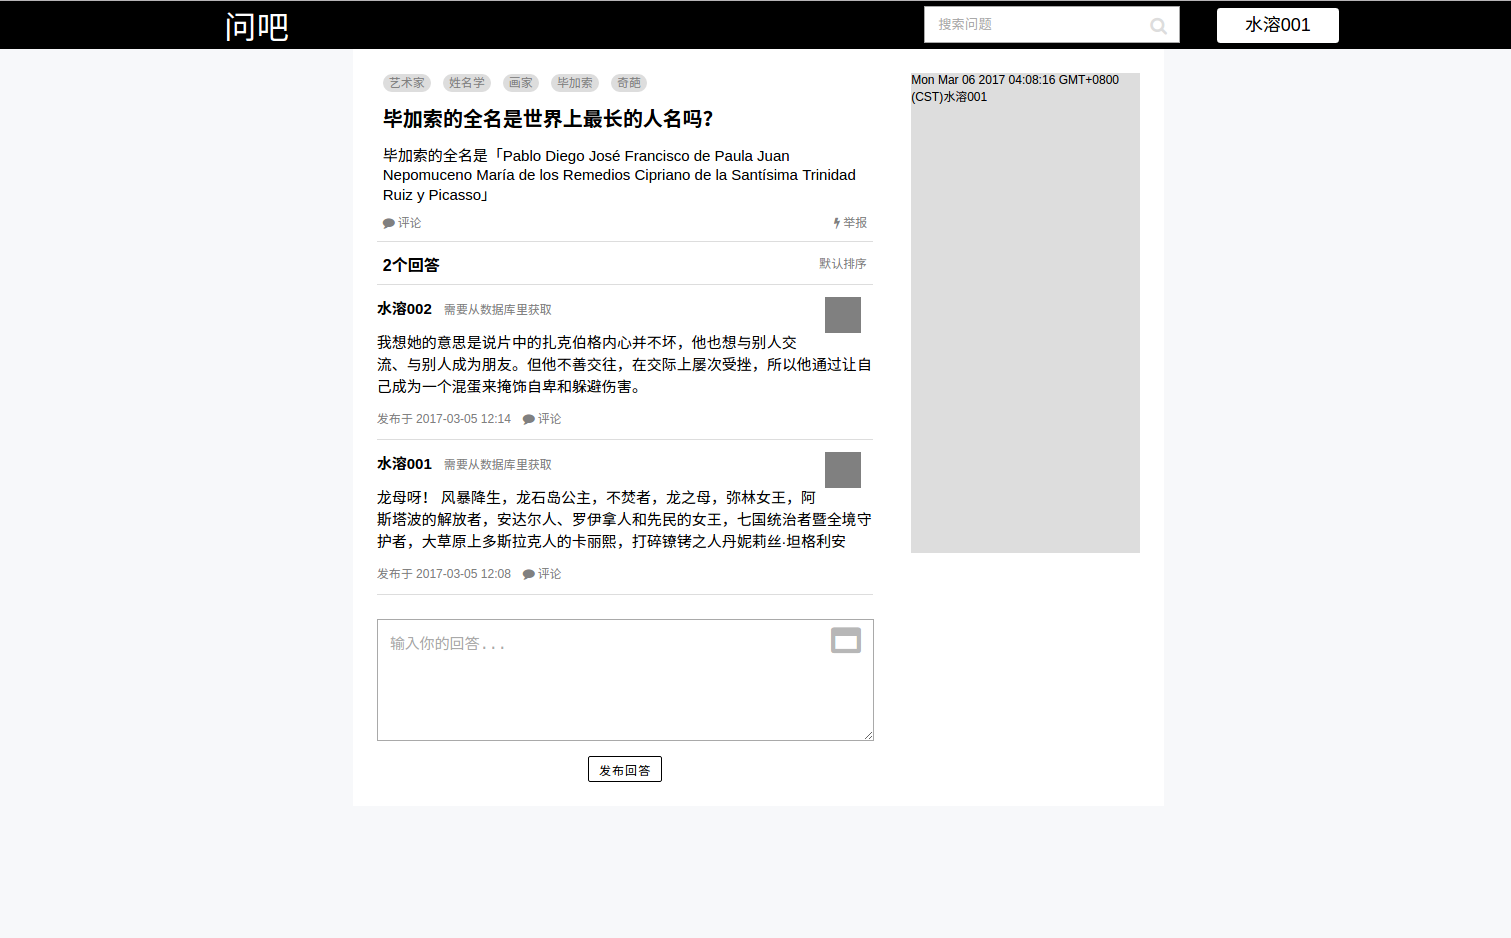
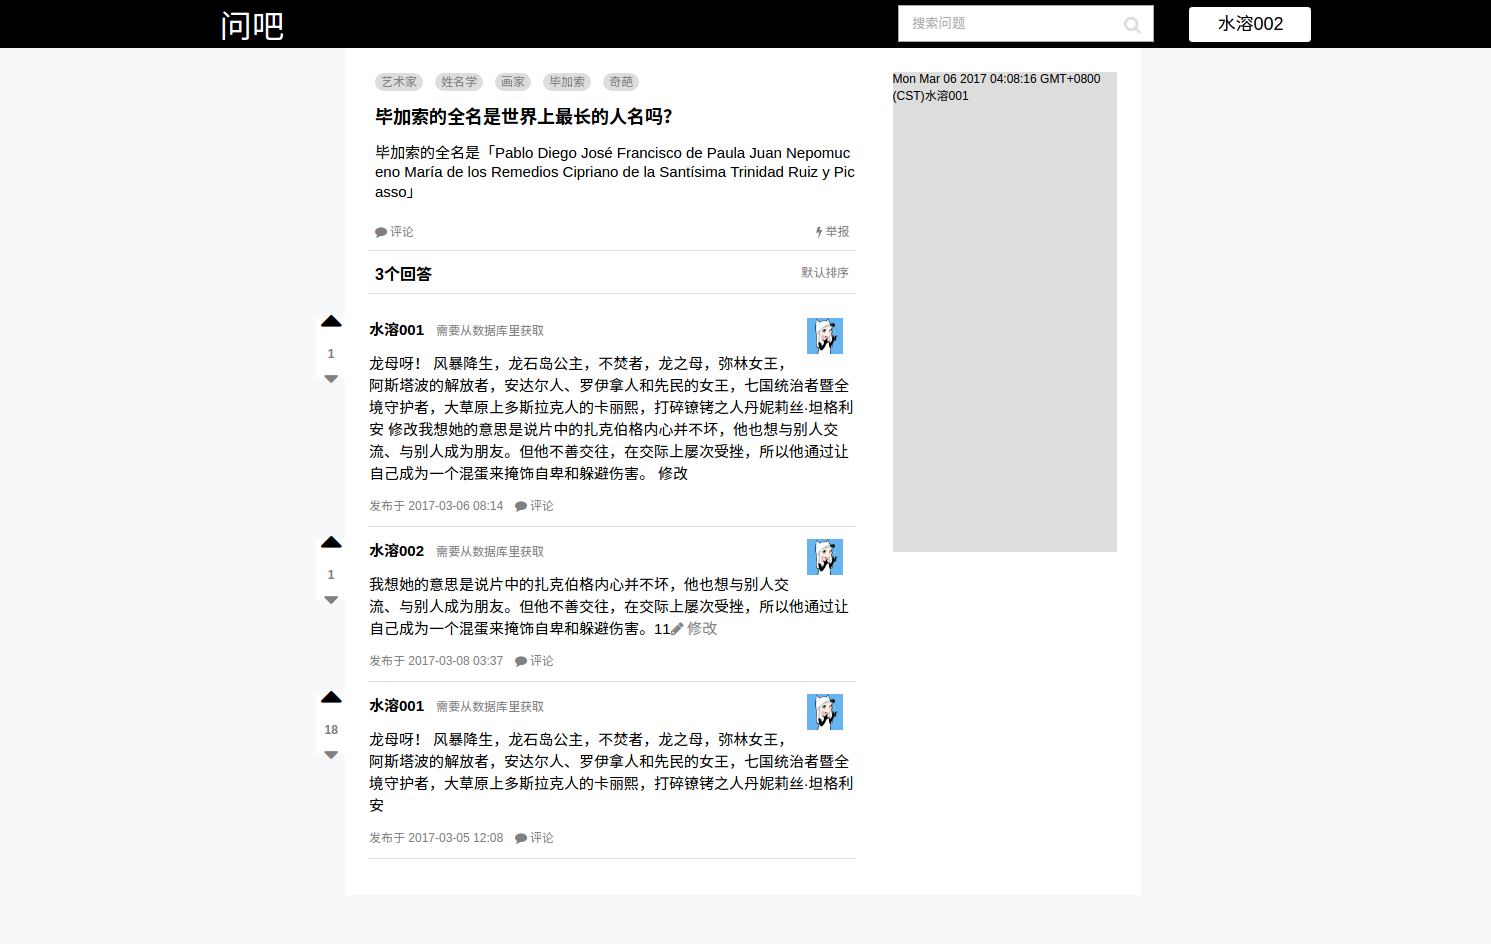
修改README,添加回答排序,默认根据赞数正序排序.

Changed region(s): [[0.216, 0.0, 0.8947, 0.8966], [0.7404, 0.0928, 0.7713, 0.5874], [0.1234, 0.0, 0.216, 0.0618]]

diff --git a/public/javascripts/questionPage.js b/public/javascripts/questionPage.js
@@ -35,7 +35,9 @@ function listAnswers(){
     $.post('/api/getanswers',{username: getCookie('user'),questionID: questionID},function(res){
         //修改页面回答数量
         $('#qpm-up-answer-count span:first-child').text(res.data.length + '个回答');
-        dealTimeFormat(res.data);            
+        dealTimeFormat(res.data);
+        let data = sortByScore(res.data);
+        console.log(data);
         dynamicAddAnswer(res.data);
     });
 }
@@ -113,8 +115,12 @@ var ansModify = function(which){
     
 };
 
-//给.judge元素设置score属性记录当前回答的赞数.用户点击时的计算结果保存给它,而属性serverScore永远保存的是数据库里当前回答的赞数.所以需要给这两个属性初始化.
 //监听回答的点赞.
+
+//给.judge元素设置score属性记录当前回答的赞数.用户点击时的计算结果保存给它,而属性serverScore永远保存的是数据库里当前回答的赞数.所以需要给这两个属性初始化.
+//点赞/反对的思路是: 定义几个元素属性,之所以不用变量是因为这个东西需要和回答绑定起来,变量的话,做不到吧.好吧其实可以做到,但是麻烦.所以直接用div的attr了当成变量存储信息了.
+//这几个属性记录用户点的是up还是down.up/down点了奇数此还是偶数次,还有记录从服务器获得的分数.
+//在前端计算回答的分数.
 var upVote = function(which){
     let serverScore = $(which.parentElement).attr('finalScore');  //从服务器端获取的某答案的score;
     //父元素的 socre属性记录答案赞数.每次页面加载时从服务端获取.
@@ -226,16 +232,18 @@ function answerTextSubmit(which){
 }
 
 //按回答时间的倒序排列: 最新的在最上面
-function sortByTime(data){      
-    /*data.sort(function(a,b){    
+/*function sortByTime(data){      
+    data.sort(function(a,b){    
         return a.time - b.time;
-    });*/
-}
-
-//回答按时间正序排列
-/*function sortByTimeReverse(data){
-    return data.reverse();
+    });
 }*/
+
+//根据回答的赞数正序排序.
+function sortByScore(data){
+    return data.sort(function(a,b){
+        return b.weight - a.weight;
+    });
+}
 
 //处理 数据里时间的格式.变成 2017-2-29 23:13 
 function dealTimeFormat(data){

diff --git a/routes/api/changescore.js b/routes/api/changescore.js
@@ -21,12 +21,10 @@ router.route('/')
             }else{                
                 voter = doc.voter;
                 let index = findUser(dataVoter[0],voter) //检查是否此用户名在数据库里
-                console.log(index);
-                if(index){  //在的话,删除掉再说
+                if(index){  //在的话,删除掉
                     voter.splice(index,1);
-                }
-                console.log(voter);
-                voter.push(dataVoter);            
+                }                
+                voter.push(dataVoter);//然后把新的添加进去
 
                 Answer.update({'_id': data.answerID},{$set:{'voter': voter,'weight': data.arr}},function(err,doc2){
                     err ? console.error('=== update error',err) : console.log('回答的voter和权重更新成功');

diff --git a/README.md b/README.md
@@ -65,7 +65,7 @@
 #更新日志(已完成)
 
 
-* 2017-3-7 :    回答点赞
+* 2017-3-7 :    回答点赞,一个回答,用户只能点赞/反对一次.而且刷新页面,点赞/反对标识仍然保留.
 * 2017-3-6 :    添加后端接口,接受编辑的个人信息,保存到数据库.
 * 2017-3-6 :    个人主页的个人信息的编辑功能,然后传给后端.(除了上传图片)
 * 2017-3-6 :    一个问题,一个用户只能回答一次
